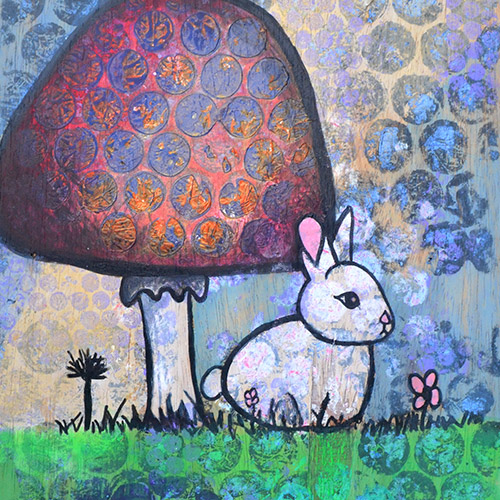
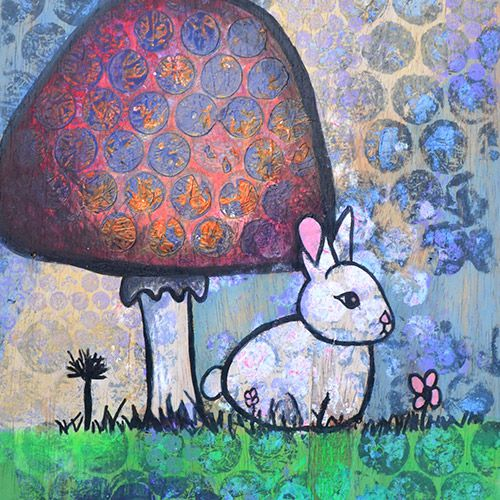
Compressed Product images for speed

diff --git a/index.html b/index.html
@@ -214,7 +214,7 @@
 		m=s.getElementsByTagName(o)[0];a.async=1;a.src=g;m.parentNode.insertBefore(a,m)
 		})(window,document,'script','//www.google-analytics.com/analytics.js','ga');
 
-		ga('create', 'UA-41399965-1', 'auto');
+		ga('create', 'UA-56654126-1', 'auto');
 		ga('send', 'pageview');
 	</script>
   </body>
